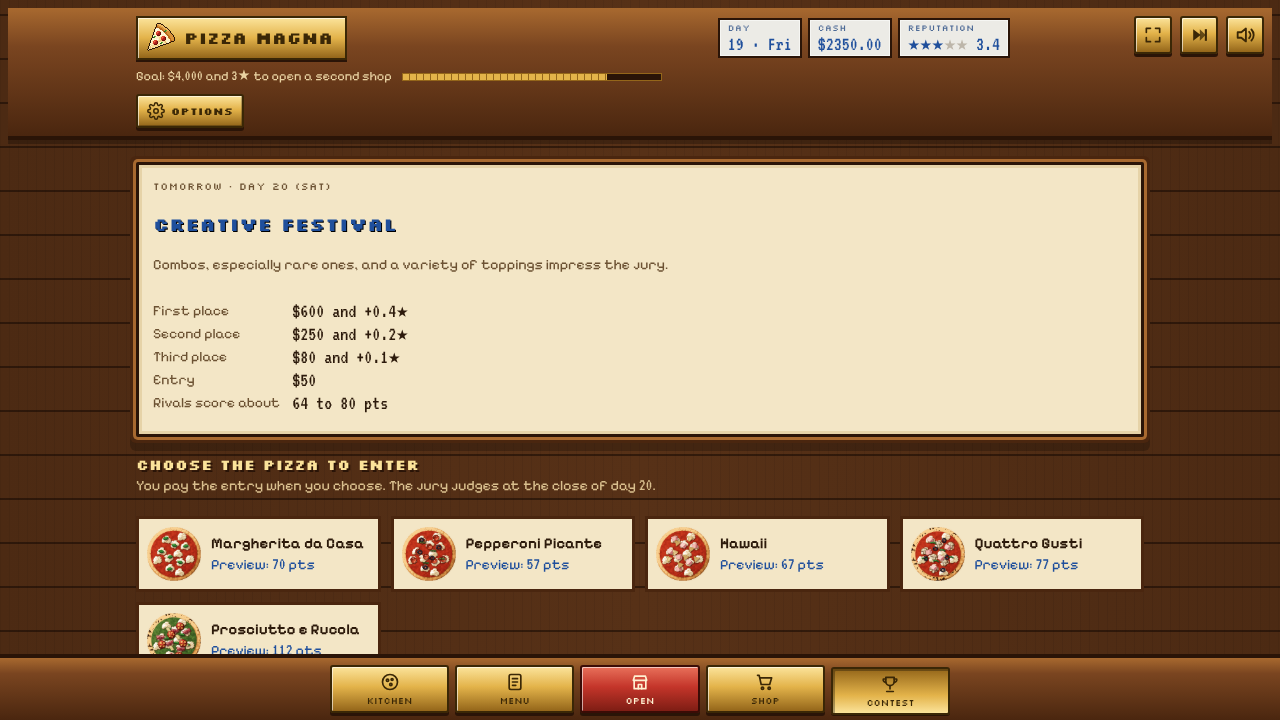
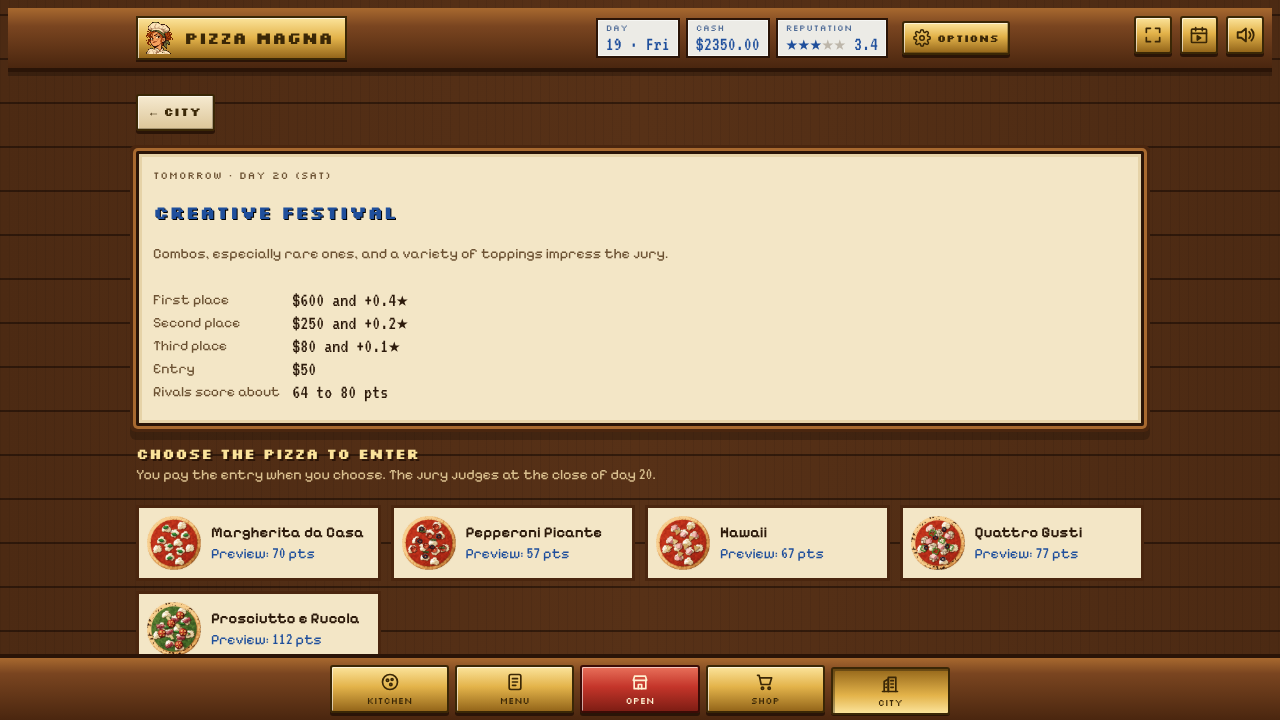
itch.io page kit: fresh screenshots, city and shop shots, updated description
Screenshots regenerated from the current game (no more goal bar in the header),
plus two new ones: the City and the Shop (team, bank). The generator now builds
its state with ensureShops() like the game does on load, so the City renders.
The description and tagline now cover the City, the bank, the team, the slower
reputation and the pizzeria symbol; counts updated (100+ combos).

Claude-Session: https://claude.ai/code/session_01X3CjJc1MM1px52YqiUbKah

Changed region(s): [[0.0, 0.0, 1.0, 0.9167], [0.6875, 0.9472, 0.7188, 0.9778]]

diff --git a/itch/make_media.js b/itch/make_media.js
@@ -1,7 +1,7 @@
 /* Makes the images for the game's itch.io page, from the game's own art, fonts and colours.
    Run from the repo root:  node itch/make_media.js
    Output (next to this file): logo.png (transparent), banner.png, cover.png, background.png (seamless tile),
-   shot-1..5.png (screenshots). Needs Playwright (preinstalled in the cloud sessions); the fonts are in assets/fonts. */
+   shot-1..7.png (screenshots). Needs Playwright (preinstalled in the cloud sessions); the fonts are in assets/fonts. */
 const { chromium } = require('playwright');
 const fs = require('fs'), path = require('path');
 const OUT = __dirname, GAME = 'file://' + path.resolve(__dirname, '../index.html');
@@ -138,7 +138,7 @@ const save = (name, url) => fs.writeFileSync(path.join(OUT, name), Buffer.from(u
 
   // ---- screenshots of the real game (desktop size)
   await p.evaluate(() => {
-    closeModal(); state = freshState(); Object.assign(state, { chef: 'Rui', shop: "Pizza d'Italia", seenIntro: true, money: 2350, day: 19, rep: 3.4, tier: 3, lastSales: {} });
+    closeModal(); state = ensureShops(freshState()); Object.assign(state, { chef: 'Rui', shop: "Pizza d'Italia", seenIntro: true, money: 2350, day: 19, rep: 3.4, tier: 3, lastSales: {}, logo: 'chefw' });
     const mk = (dough, sauce, list) => { const pieces = [...spread('mozzarella', 12, .74, 0)]; list.forEach(([id, n], k) => pieces.push(...spread(id, n, .66 - .04 * (k % 3), k * 2 + 1))); return { dough, sauce, pieces } };
     const L = [['Margherita da Casa', 'napo', 'tomate', [['manjericao', 7]]], ['Pepperoni Picante', 'napo', 'tomate', [['pepperoni', 10], ['azeitonas', 5], ['oregaos', 4]]],
       ['Hawaii', 'napo', 'tomate', [['fiambre', 7], ['ananas', 8]]], ['Quattro Gusti', 'lenta', 'tomate', [['cogumelos', 6], ['fiambre', 5], ['pimento', 5], ['azeitonas', 5]]],
@@ -159,5 +159,10 @@ const save = (name, url) => fs.writeFileSync(path.join(OUT, name), Buffer.from(u
   await p.evaluate(() => { try { anim = null } catch (e) {} closeModal() });
   await shot(4, 'sala');
   await shot(5, 'concurso');
+  await shot(6, 'cidade');   // the city: neighbourhoods, lots to rent or buy, the rivals
+  // the shop, scrolled to the team (pizzaiolos and waiters with their skills, people to hire) and the bank
+  await p.evaluate(() => { closeModal(); state.tab = 'loja'; render() }); await p.waitForTimeout(1500);
+  await p.evaluate(() => { const h = [...document.querySelectorAll('h3')].find(e => e.textContent.includes(t('staff.title'))); if (h) window.scrollTo(0, h.closest('.card').getBoundingClientRect().top + scrollY - 70) });
+  await p.waitForTimeout(400); await p.screenshot({ path: path.join(OUT, 'shot-7.png') });
   await b.close(); console.log('done');
 })();

diff --git a/itch/PAGE.md b/itch/PAGE.md
@@ -10,7 +10,7 @@ Everything the itch.io page needs. The images are made by `node itch/make_media.
 | `banner.png` | Edit game › Theme › **Banner** (the strip at the top of the page; itch scales it to the page width) | 1920 × 480 |
 | `background.png` | Edit game › Theme › **Background image**, set to *tiled* (the dining room from above: red and white check floor, tables, a fountain; seamless) | 768 × 768 |
 | `logo.png` | Transparent logo for the description, the devlog, social posts, Discord (not an itch field) | 1108 × 380 |
-| `shot-1.png` … `shot-5.png` | Edit game › **Screenshots**, in this order: kitchen, menu, the day, room, contest | 1280 × 720 |
+| `shot-1.png` … `shot-7.png` | Edit game › **Screenshots**, in this order: kitchen, menu, the day, room, contest, city, shop (team and bank) | 1280 × 720 |
 
 ## Colours (Theme editor)
 
@@ -32,7 +32,7 @@ Fonts, if itch.io lets you pick them: headings a pixel font (Silkscreen or "Pres
 ## Basics
 
 - **Title:** Pizza Magna
-- **Short description / tagline** (under 100 characters): `Run a 90s pixel-art pizzeria: invent pizzas, set prices, beat the rival.`
+- **Short description / tagline** (under 100 characters): `Run a 90s pixel-art pizzeria: invent pizzas, hire a team, open shops across the city.`
 - **Kind of project:** HTML (playable in the browser)
 - **Classification:** Games
 - **Genre:** Simulation (Strategy as the second one, if allowed)
@@ -46,22 +46,30 @@ Fonts, if itch.io lets you pick them: headings a pixel font (Silkscreen or "Pres
 
 > **Be the pizzaiolo. Then be the boss.**
 >
-> Pizza Magna is a pizzeria game in 90s pixel art. Make your own pizzas topping by topping, set the prices, fill the dining room and take on the pizzeria next door.
+> Pizza Magna is a pizzeria game in 90s pixel art. Make your own pizzas topping by topping, set the prices, fill the dining room, take on the pizzeria next door and then open more shops across the city.
 >
 > **Cook**
 > - 100+ toppings, 7 doughs and 9 sauces, and all of them are always available.
 > - Place every piece yourself: whole, chopped or grated, turned the way you like. The weights and the cost are real.
-> - 85+ combos to discover (Margherita, Hawaii, Piri-piri Chicken…) and a few terrible ones. Chicken with Nutella? The customers will tell you.
+> - 100+ combos to discover (Margherita, Hawaii, Piri-piri Chicken…) and a few terrible ones. Chicken with Nutella? The customers will tell you.
 > - Share any pizza as a photo, a link or a `.pizza` file, and open friends' recipes on your own bench.
 >
 > **Run the place**
 > - Four kinds of customers, and each wants something different: students look for a bargain and home toppings, families want a good deal, gourmets want quality, tourists want something unusual.
-> - Set the prices, decorate the room (tables, plants, floors, walls, a jukebox), hire staff, buy ovens and pick your supplier.
+> - Set the prices, decorate the room (tables, plants, floors, walls, a jukebox), buy ovens and pick your supplier.
+> - Hire your team: pizzaiolos and waiters, each with a name and their own skills. New people look for work every day.
+> - Reputation is earned: a good menu takes a couple of months to reach five stars.
+> - Give your pizzeria a name and a symbol, or use a photo; it signs every pizza you share.
 > - Let a manager run everything, or do it all yourself.
 > - A topping and a combo of the week, a market study to spot trends, and a rival who is not going to sit still.
 >
+> **Grow**
+> - The city of Porto Magno: four neighbourhoods (university, old town, residential, riverside), each with its own customers, foot traffic, rents and a rival with its own strategy.
+> - Rent or buy more shops; each has its own menu, room and team, and your recipe book goes with you.
+> - A bank, for when the next shop can't wait: borrow up to $20,000 and pay interest every day.
+>
 > **Compete**
-> - A contest every five days: sweet, cheese, spicy, seafood, vegetarian, creative and low-cost themes.
+> - A contest every five days on the city's main square: classic, sweet, cheese, spicy, seafood, vegetarian, creative and low-cost themes.
 >
 > **Also**
 > - Calm Italian chiptune music, lively and relaxed tunes in turn.
